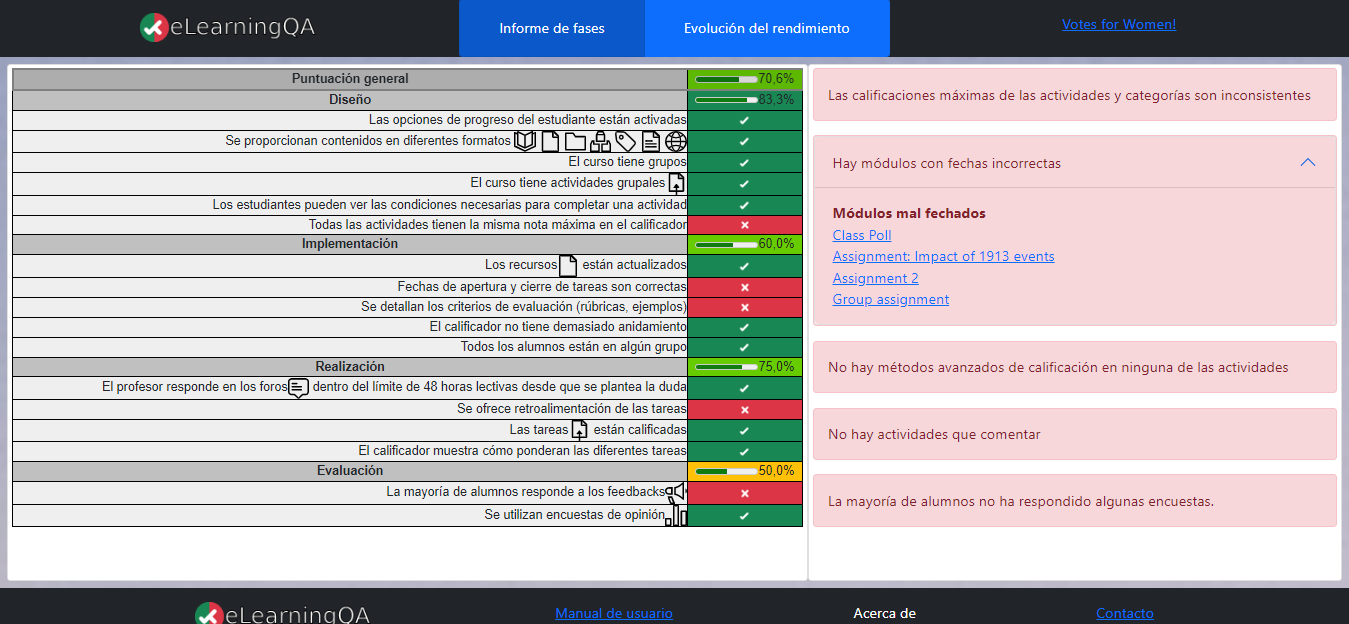
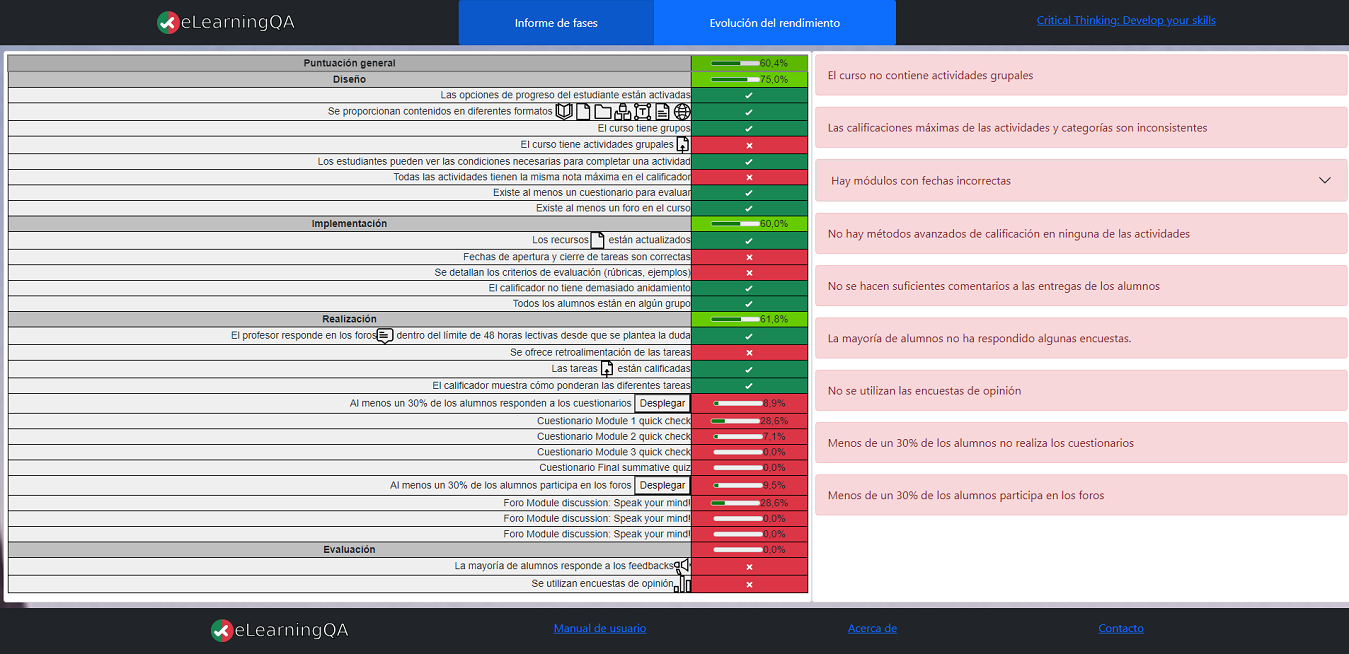
#21 Modificar readme

diff --git a/README.md b/README.md
@@ -9,32 +9,36 @@ eLearningQA is a web app that uses Moodle's web service
 API to retrieve information and runs a set of checks
 while applying an e-learning quality framework to
 assess the quality of instructional design on 
-Moodle courses (I am not a Moodle Partner). 
+Moodle courses (We are not Moodle Partners). 
 This app is intended to be used by 
 teachers using Moodle.
 
 
 ## Features
 
-- Compatible with Moodle v3.8 onwards
+- Compatible with Moodle v4.1 onwards
 - Allows the user to choose which Moodle host to connect to when logging in
-- 17 checks on different aspects of a course, such as checking if assignments are graded on time or checking whether files are up to date
+- 21 checks on different aspects of a course, such as checking if assignments are graded on time or checking whether files are up to date
+- Display statistics for quizzes and forums.
 - Generates reports showing the checks' results and additional information concerning the quality framework
 - Shows alerts explaining the causes of check failures, occasionally with links to take you to the source of the problem
 - Graphs that show the evolution of the quality of courses
 
 ## Snapshots
 Login page
-![Login page](https://github.com/RobertoArastiBlanco/eLearningQA/blob/main/Memo/plantillaLatex-master/img/Login.PNG?raw=true)
+![Login page](https://github.com/ada1012/eLearningQA/blob/main/Memo/plantillaLatex-master/img/Login.PNG?raw=true)
 Main page
-![Main page](https://github.com/RobertoArastiBlanco/eLearningQA/blob/main/Memo/plantillaLatex-master/img/ListaCursos.PNG?raw=true)
+![Main page](https://github.com/ada1012/eLearningQA/blob/main/Memo/plantillaLatex-master/img/ListaCursos.PNG?raw=true)
 Report page
-![Phase report](https://github.com/RobertoArastiBlanco/eLearningQA/blob/main/Memo/plantillaLatex-master/img/InformeFases.PNG?raw=true)
-![Evolution graph](https://github.com/RobertoArastiBlanco/eLearningQA/blob/main/Memo/plantillaLatex-master/img/Evolucion.PNG?raw=true)
+![Phase report](https://github.com/ada1012/eLearningQA/blob/main/Memo/plantillaLatex-master/img/InformeFases.PNG?raw=true)
+![Quiz report](https://github.com/ada1012/eLearningQA/blob/main/Memo/plantillaLatex-master/img/Cuestionarios.PNG?raw=true)
+![Forum report](https://github.com/ada1012/eLearningQA/blob/main/Memo/plantillaLatex-master/img/Foros.PNG?raw=true)
+![Evolution graph](https://github.com/ada1012/eLearningQA/blob/main/Memo/plantillaLatex-master/img/Evolucion.PNG?raw=true)
 
 ## Authors
 
 - [Roberto Arasti Blanco](https://www.github.com/RobertoArastiBlanco)
+- [Alberto Díaz Álvarez](https://www.github.com/ada1012)
 
 ## Mentors
 
